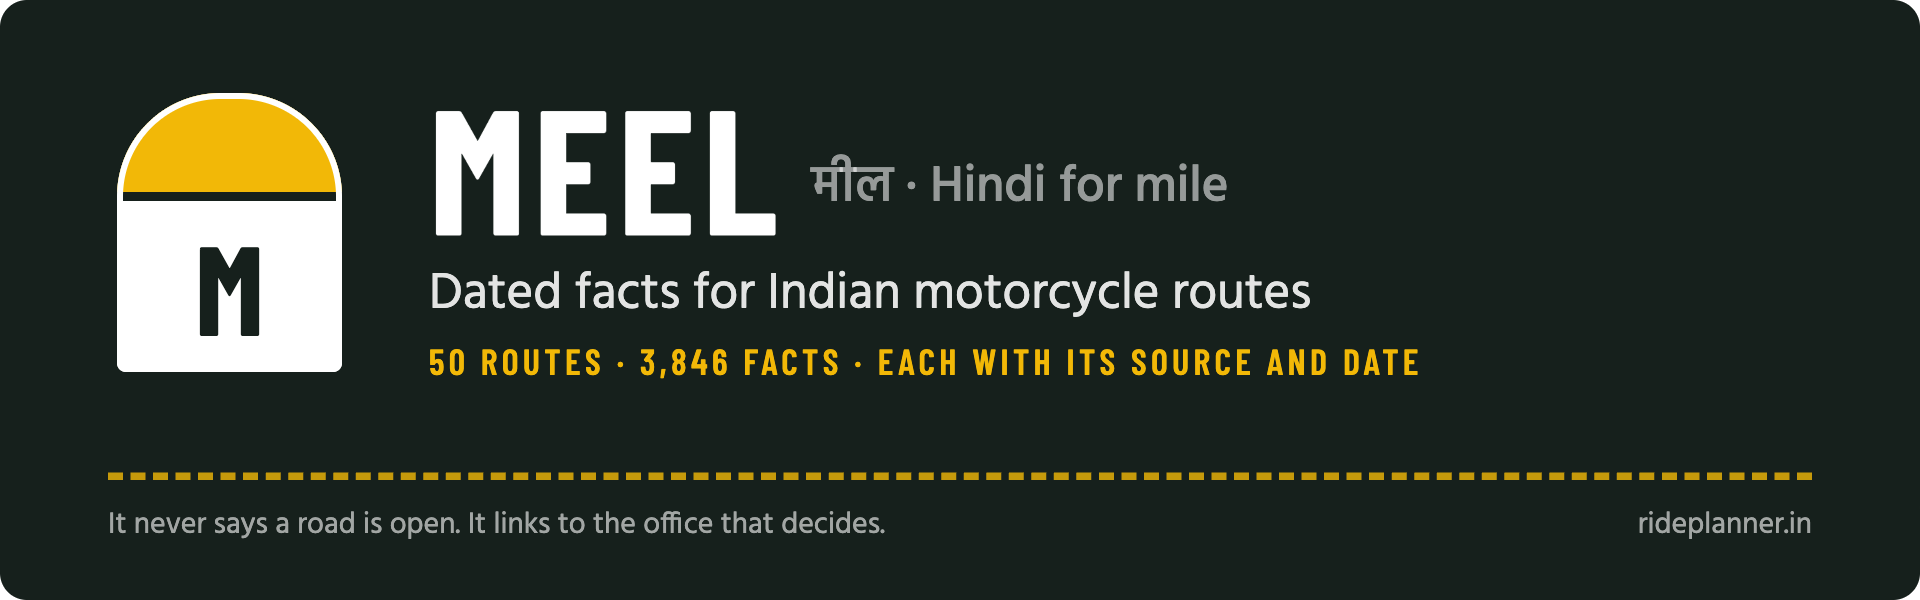
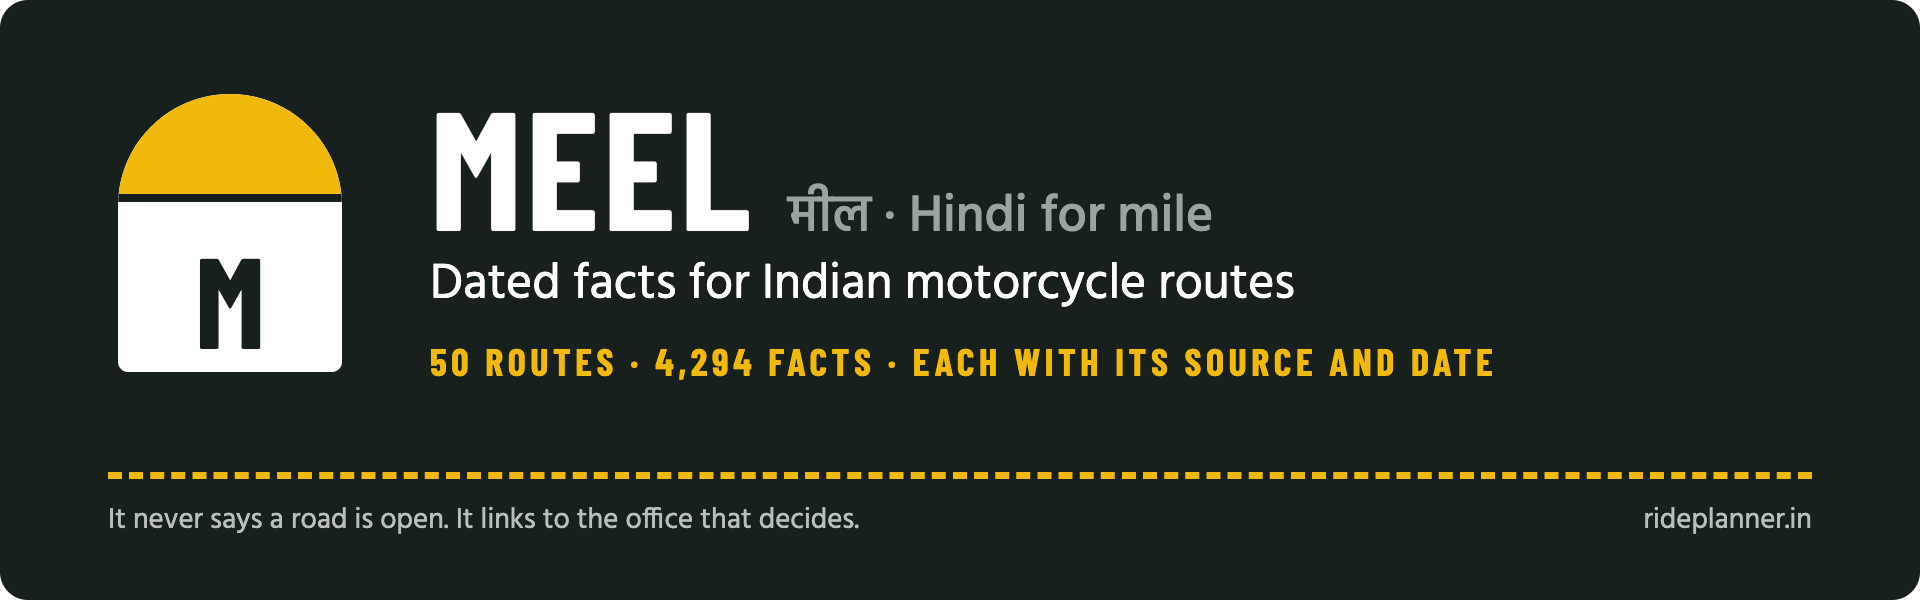
Ready the repository to be public
The research notes, which quote forum members by name, and the two documents built on them leave the repository
(kept privately). Mixpanel's token now comes only from the host's settings, so a copy of Meel never counts into this
project. Mentions of an employer, the work machine's paths, a private link and an example address that may be real are gone. Pinned
fixed versions of three dependencies; the README pictures and fact count are current.

diff --git a/web/src/lib/analytics-config.ts b/web/src/lib/analytics-config.ts
@@ -2,15 +2,14 @@
   Which Mixpanel project Meel counts into, and when. Read on the server too (the About page says when counting is on),
   so it holds no browser code.
 
-  The project is "Meel" in Vishal's own Mixpanel organisation, made on 7 October 2026 with its data
-  kept in the European Union and its days in India's time. A project token is public by design: every page carries
-  it, and it can only send events, never read them. NEXT_PUBLIC_MIXPANEL_TOKEN and NEXT_PUBLIC_MIXPANEL_API_HOST
-  point a build at another project instead, such as a test one.
+  The project's token comes from NEXT_PUBLIC_MIXPANEL_TOKEN, set where the site is hosted. With none set, nothing is
+  counted, so a copy of Meel run by someone else never counts into this site's project. A project token is public by
+  design: every page carries it, and it can only send events, never read them.
 */
 
-export const MIXPANEL_TOKEN = process.env.NEXT_PUBLIC_MIXPANEL_TOKEN || "";
+export const MIXPANEL_TOKEN = process.env.NEXT_PUBLIC_MIXPANEL_TOKEN ?? "";
 
-/** The project keeps its data in the EU, so events go to Mixpanel's EU servers. */
+/** Where the project keeps its data. Meel's project is in the EU; a project made in the US or India sets its own. */
 export const MIXPANEL_API_HOST = process.env.NEXT_PUBLIC_MIXPANEL_API_HOST || "https://api-eu.mixpanel.com";
 
 /**

diff --git a/design/meel-wireframes.html b/design/meel-wireframes.html
@@ -7,11 +7,9 @@
 <body>
 <!--
   Meel wireframes, 28 September 2026. Meel (मील) is Hindi for mile; the site lives at rideplanner.in.
-  Method: one frame per state, notes are the spec,
-  one example world). 
-  The look below is a first proposal for this product, taken from Indian road furniture:
-  kilometre stones (white body, yellow cap, black letters) and green highway signboards.
-  The product is drawn light-only on purpose: it is read outdoors, on a phone, in sunlight.
+  Method: one frame per state, the notes are the spec, and one example world throughout.
+  The look is taken from Indian road furniture: kilometre stones (white body, yellow cap,
+  black letters) and green highway signboards. It follows the phone's light or dark setting.
 -->
 <title>Meel Wireframes</title>
 <link rel="preconnect" href="https://fonts.googleapis.com">

diff --git a/design/meel-wireframes.src.html b/design/meel-wireframes.src.html
@@ -1,10 +1,8 @@
 <!--
   Meel wireframes, 28 September 2026. Meel (मील) is Hindi for mile; the site lives at rideplanner.in.
-  Method: one frame per state, notes are the spec,
-  one example world). 
-  The look below is a first proposal for this product, taken from Indian road furniture:
-  kilometre stones (white body, yellow cap, black letters) and green highway signboards.
-  The product is drawn light-only on purpose: it is read outdoors, on a phone, in sunlight.
+  Method: one frame per state, the notes are the spec, and one example world throughout.
+  The look is taken from Indian road furniture: kilometre stones (white body, yellow cap,
+  black letters) and green highway signboards. It follows the phone's light or dark setting.
 -->
 <title>Meel Wireframes</title>
 <link rel="preconnect" href="https://fonts.googleapis.com">

diff --git a/docs/open-source-check-2026-10-07.md b/docs/open-source-check-2026-10-07.md
@@ -28,7 +28,7 @@ Each of these is fixable in under an hour. Nothing has been changed yet.
   - **Fix:** rewrite the history so every commit carries your GitHub noreply address, or publish a fresh repository with the code as one first commit. Then set the noreply address for this folder (`git config user.email …`), and turn on GitHub's "Block command line pushes that expose my email".
   - Rewriting changes every commit's id. Nothing depends on the old ids except Vercel's list of past deployments.
 
-- [ ] **2. The research notes quote people word for word.** `docs/research-notes/` holds about 43,000 words of desk research. Among them:
+- [x] **2. The research notes quote people word for word.** *Done 7 October: `docs/research-notes/`, `docs/research-interim-findings.md` and `docs/knowledge-document.md` moved out of the repository to a private folder beside it, and removed from the history (item 1).* `docs/research-notes/` holds about 43,000 words of desk research. Among them:
   - posts from xBhp and Team-BHP forum members, quoted by their handles and in one case by a real name;
   - app-store reviews, quoted verbatim;
   - 13 quotations longer than 150 characters.
@@ -36,28 +36,28 @@ Each of these is fixable in under an hour. Nothing has been changed yet.
   That was fine for private planning. Published, it republishes other people's words without asking, and forum rules may forbid it. **History.**
   - **Fix:** take `docs/research-notes/` (and `docs/research-interim-findings.md`, `docs/knowledge-document.md`, which draw on it) out of the public repository, or rewrite them as summaries with no quotes and no handles. Because they are in history, the history rewrite in item 1 is where to remove them.
 
-- [ ] **3. A copy of Meel would count into your Mixpanel project.** `web/src/lib/analytics-config.ts` falls back to your project's token. Anyone who deploys their own copy, without setting their own token, sends their visitors' events to you. The token itself is not secret: every page already carries it.
+- [x] **3. A copy of Meel would count into your Mixpanel project.** *Done 7 October: the token now comes only from `NEXT_PUBLIC_MIXPANEL_TOKEN`, which Vercel has. The project id is gone from the README.* `web/src/lib/analytics-config.ts` falls back to your project's token. Anyone who deploys their own copy, without setting their own token, sends their visitors' events to you. The token itself is not secret: every page already carries it.
   - **Fix:** remove the fallback, so counting needs `NEXT_PUBLIC_MIXPANEL_TOKEN`. Vercel already has it (you added it on 7 October), so the live site carries on unchanged. The README line naming the project id can go too.
 
 ## Should
 
-- [ ] **4. Mentions of employer and your work machine.**
+- [x] **4. Mentions of employer and your work machine.** *Done 7 October: the wireframe file's first lines reworded; the morning report moved to the private folder. Both also cleaned out of the history. The Google Cloud project id is gone from the README too.*
   - The wireframe file's first lines say it was made with its employer's wireframe method.
   - `docs/morning-report-2026-09-28.md` gives the folder as `the project folder` and links a private Claude page.
 
   Nothing secret, but it ties a personal project to your employer in public. **Worth checking your employment contract's clause on side projects before publishing anything built alongside work.** That is a question for you, not something this check can answer.
   - **Fix:** take the two lines out of the wireframe file, and the folder path and the link out of the morning report (or drop that report: it is a one-day status note).
 
-- [ ] **5. An example email that could be a real person's.** The wireframes use `rahul@example.com` as a made-up rider. It may well be someone's real address.
+- [x] **5. An example email that could be a real person's.** *Done 7 October: `rahul@example.com`, in the files and in the history.* The wireframes use `rahul@example.com` as a made-up rider. It may well be someone's real address.
   - **Fix:** change it to `rahul@example.com`; `example.com` is reserved for this.
 
-- [ ] **6. Pumps copied from the oil companies' own locators.** `data/research/*.json` lists 453 IndianOil and HP outlets: name, town and position, each linking to its page on the company's locator. Publishing them as data is a step beyond showing them on the site. Their sites' terms of use were not read.
+- [x] **6. Pumps copied from the oil companies' own locators.** *Checked 7 October: neither site links any terms of use; HP's footer says "All Rights Reserved". Kept, as facts each credited to its own page. `data/LICENSE.md` now says they are not Meel's to license.* `data/research/*.json` lists 453 IndianOil and HP outlets: name, town and position, each linking to its page on the company's locator. Publishing them as data is a step beyond showing them on the site. Their sites' terms of use were not read.
   - **Fix:** read the terms on locator.iocl.com and petrolpump.hpretail.in, or keep the list in the site's data only and say where it came from (as now). Low risk either way: each pump names its source.
 
-- [ ] **7. Planning documents show how decisions were made.** `docs/plan.md`, the morning report, the audits and the research ideas are candid working notes, including ideas about earning money. Nothing leaks, but they will be read.
+- [x] **7. Planning documents show how decisions were made.** *Kept, 7 October. They were read again for quotes and names: none. The README now points newcomers to `docs/plan.md`.* `docs/plan.md`, the morning report, the audits and the research ideas are candid working notes, including ideas about earning money. Nothing leaks, but they will be read.
   - **Fix:** keep them (many open-source projects do), or move them to a private notes repository. Your call.
 
-- [ ] **8. Four dependency warnings.** `pnpm audit` reports 3 high and 1 moderate. All come from tools Meel does not use at run time:
+- [x] **8. Four dependency warnings.** *Done 7 October: pnpm overrides pin mysql2 3.24.5, source-map-js 1.2.2 and deepmerge-ts 8.0.2; `pnpm audit` now finds nothing, and the site builds.* `pnpm audit` reports 3 high and 1 moderate. All come from tools Meel does not use at run time:
   - Prisma's command-line tool bundles a MySQL driver, though Meel uses Postgres;
   - a build-time source-map reader;
   - a merge helper.
@@ -65,7 +65,7 @@ Each of these is fixable in under an hour. Nothing has been changed yet.
   Public repositories get these flagged by GitHub automatically.
   - **Fix:** update Prisma when a release with the newer MySQL driver is out, or pin the fixed versions with pnpm overrides.
 
-- [ ] **9. The README pictures are out of date.** `.github/readme/screens.png` shows heights in metres ("5,328 m") and the old fuel list. Not a leak.
+- [x] **9. The README pictures are out of date.** *Done 7 October: all three taken again from a production build of the site as it is now; the banner and the README say 4,294 facts.* `.github/readme/screens.png` shows heights in metres ("5,328 m") and the old fuel list. Not a leak.
   - **Fix:** take them again from the site as it is now.
 
 ## Fine: checked, nothing to do

diff --git a/web/README.md b/web/README.md
@@ -78,8 +78,8 @@ Put them in `web/.env.local` on your own machine, one per line, as `NAME=value`.
 | `MEEL_EDITOR_EMAILS` | The email of each editor, with commas between them | Nobody is an editor, and the inbox at `/editor` cannot be opened |
 | `MEEL_EDITOR_SIGNUP` | Set to `open` to let an editor's email sign up with a password | An editor's email cannot sign up with a password. Logging in with Google still works |
 | `NEXT_PUBLIC_MEEL_CHAT_NUMBER` | A WhatsApp number, with country code, digits only. Adds "Send from my chat app instead" to the report sheet | That button is not shown |
-| `NEXT_PUBLIC_MIXPANEL_TOKEN` | Another Mixpanel project's token, such as a test project's. See "Mixpanel" | Meel's own project, "Meel", whose token is in `src/lib/analytics-config.ts` |
-| `NEXT_PUBLIC_MIXPANEL_API_HOST` | Where that other project keeps its data: `https://api.mixpanel.com` for the US, `https://api-in.mixpanel.com` for India | `https://api-eu.mixpanel.com`, as Meel's project keeps its data in the EU |
+| `NEXT_PUBLIC_MIXPANEL_TOKEN` | The Mixpanel project's token (Project settings → Access keys). Counts pages and the tools riders use. See "Mixpanel" | Nothing is sent to Mixpanel, and About does not mention it |
+| `NEXT_PUBLIC_MIXPANEL_API_HOST` | Where that project keeps its data: `https://api.mixpanel.com` for the US, `https://api-in.mixpanel.com` for India | `https://api-eu.mixpanel.com`, Mixpanel's EU servers |
 | `NEXT_PUBLIC_MIXPANEL_IN_DEVELOPMENT` | `1` to send events from your own machine too. Use a separate test project | On your own machine each event is written to the browser's console instead of being sent |
 
 ### Mixpanel
@@ -88,7 +88,7 @@ The list of events, with what each one means and the details it carries, is `src
 
 What is never sent: a name, an email, a phone number, anything typed into a box, or the part of an address after "?". Mixpanel's own automatic capture and screen recording are off. Its random visitor number is kept in the browser's storage, not a cookie. A browser set to "Do Not Track" is not counted. Logged-in riders are not identified.
 
-Where it counts: the project "Meel" in Vishal's own Mixpanel organisation, made on 7 October 2026, data kept in the EU, days in India's time. Only the live site counts: not this machine, and not Vercel's preview deployments. The token is in the code because it is public by design: every page carries it, and it can only send events, not read them.
+To switch it on: make a project in Mixpanel, put its token in `NEXT_PUBLIC_MIXPANEL_TOKEN` where the site is hosted (and `NEXT_PUBLIC_MIXPANEL_API_HOST` if its data is not kept in the EU), and build again. Only the live site counts: not your own machine, and not Vercel's preview deployments. The token is public by design: every page carries it, and it can only send events, not read them. It is not kept in the code, so a copy of Meel run by someone else never counts into this site's project.
 
 ### Setting up Google
 
@@ -103,7 +103,7 @@ Only you can do this, because it is done in your own Google account.
    - `https://rideplanner.in/api/auth/callback/google`
 5. Copy the client id into `AUTH_GOOGLE_ID` and the secret into `AUTH_GOOGLE_SECRET`, and restart the site. Google shows the secret only once, when the client is made: download its JSON file then, and keep it outside this folder.
 
-This was done on 28 September 2026, in the Google Cloud project `meel-project` (client "Meel website"). Both settings are on Vercel for production. The consent screen is still in testing, so only the test users listed under **Audience** can log in with Google. Publish it there when riders should.
+This was done on 28 September 2026, in a Google Cloud project of Meel's own. Both settings are on Vercel for production. The consent screen is still in testing, so only the test users listed under **Audience** can log in with Google. Publish it there when riders should.
 
 ### Making the editor's account
 

diff --git a/README.md b/README.md
@@ -45,7 +45,7 @@ Meel is the memory those groups don't have. It keeps **one page per route**, spl
 | | |
 |---|---|
 | **50 routes, section by section** | From Manali to Leh and the Spiti circuit to the Konkan coast and the North-East: 13 regions and about 33,600 km of road. The highest point on any route is Umling La, at 19,030 ft. Heights are given in feet, as pass signboards give them. |
-| **Every fact dated and sourced** | 3,846 facts, each with its source, the day it was read, and a state: fresh, ageing, stale, not yet checked, or riders disagree. |
+| **Every fact dated and sourced** | 4,294 facts, each with its source, the day it was read, and a state: fresh, ageing, stale, not yet checked, or riders disagree. |
 | **Fuel check** | Pick your bike, and the route says where your tank runs short and how much extra to carry. |
 | **Altitude check** | Choose where you will sleep, and the route warns you if a night climbs too fast for your body to cope. |
 | **Packing list** | What to carry for that route in that month. |
@@ -150,9 +150,9 @@ Then open http://localhost:3000. Every setting, how to add Google login, and how
 | [`web/`](web) | The website |
 | [`data/`](data) | Everything the site shows, for fifty routes, with the source of every fact. See [`data/README.md`](data/README.md) |
 | [`design/`](design) | The wireframes: one frame for each situation a rider can be in, with build notes under each. Open `meel-wireframes.html` in a browser |
-| [`docs/`](docs) | The plan, the research behind it, and a frame-by-frame check that the site matches the drawings |
+| [`docs/`](docs) | The plan, the screen audits, and a frame-by-frame check that the site matches the drawings |
 
-New here? Start with [`docs/morning-report-2026-09-28.md`](docs/morning-report-2026-09-28.md), which says what exists and how far to trust it. Then read [`docs/plan.md`](docs/plan.md).
+New here? Start with [`docs/plan.md`](docs/plan.md): its first part says what exists and how far to trust it.
 
 ## Roadmap
 

diff --git a/data/LICENSE.md b/data/LICENSE.md
@@ -7,6 +7,8 @@ The code in this repository is under the MIT licence, in `LICENSE` at the top. T
 | Map data: positions, the line of each road, fuel pumps | © OpenStreetMap contributors, under the [Open Database Licence](https://opendatacommons.org/licenses/odbl/). If you publish a changed copy, publish it under the same licence. |
 | Heights | NASA's Shuttle Radar Topography Mission, served by Open Topo Data. Public domain. |
 | Pictures in `images/` | Each under its own Creative Commons licence, with its author. Both are in `images/credits.json`, and must be shown beside the picture. |
+| Pumps from the oil companies' locators (`pumps_from_companies` in `research/`) | Facts read from IndianOil's and HP's own outlet pages: a pump's name, town and position, each linking to its page. Neither site states terms of use; HP's says "All Rights Reserved". They are not Meel's to license: credit each to its page, as the route files do, and check the companies' terms before reusing them in bulk. |
+| District codes in `site/route-districts.json` | The Local Government Directory's codes, read from Wikidata. CC0. |
 
 The route files also hold facts gathered by desk research from official and published sources, each with a link to its source. Credit those sources as the route files do.
 
